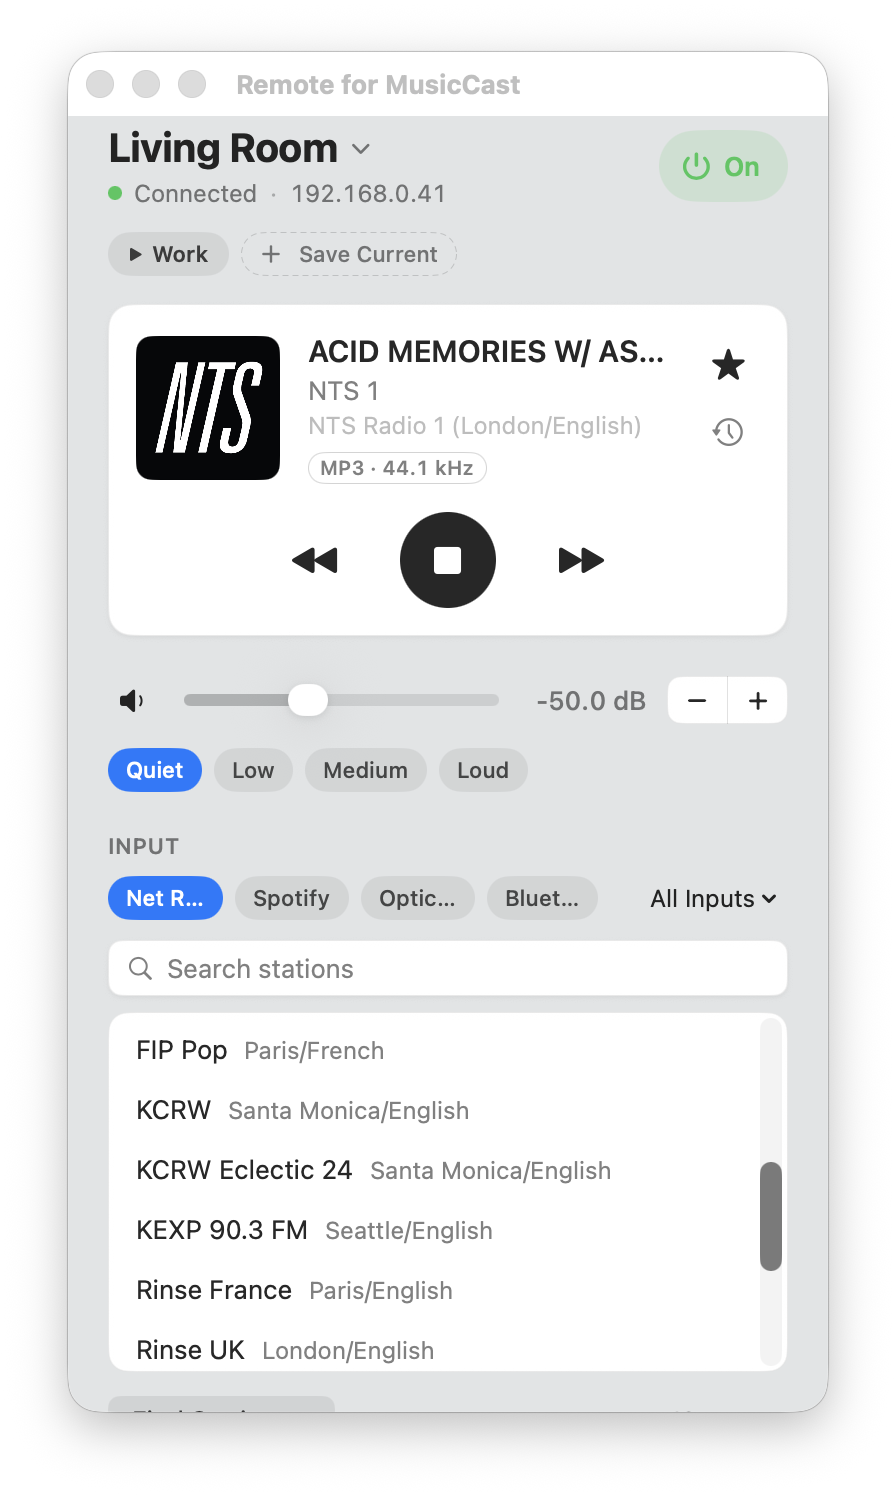
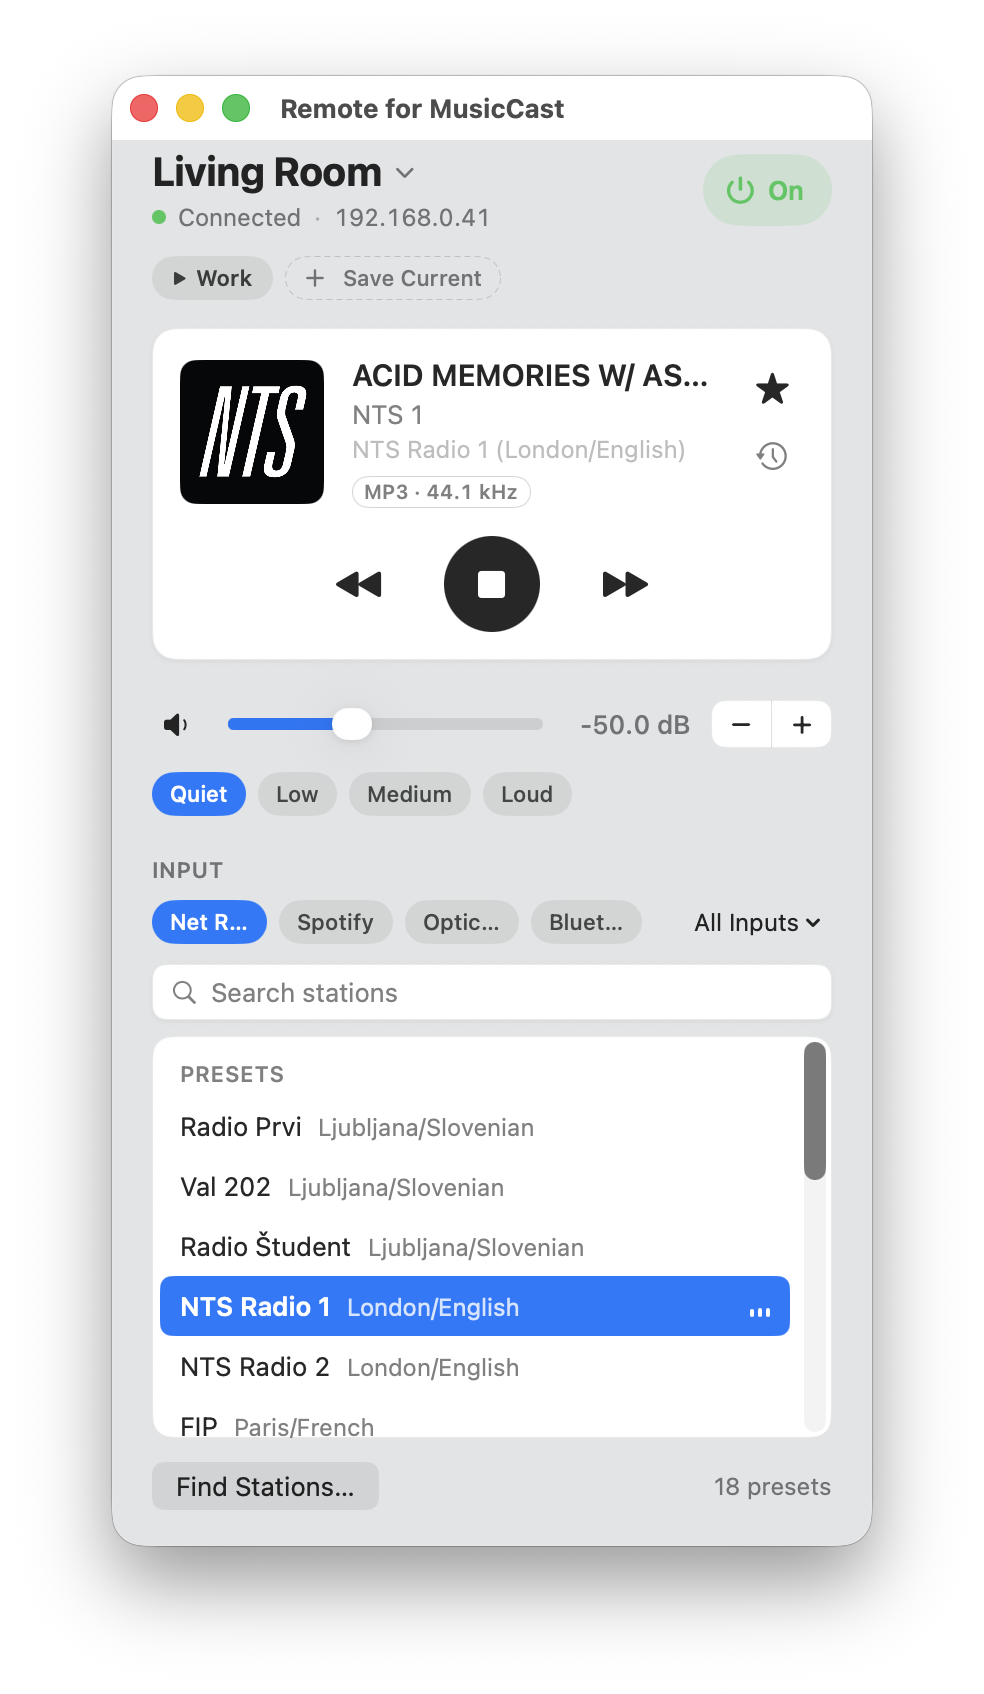
Size the window to fit its content so Find Stations isn't clipped
The fixed 600 pt minimum height was smaller than the content needs,
so a window restored at a short saved size cut off the footer below
the station list. The minimum now comes from the content itself.
Retake the main window screenshot with the fix.

Changed region(s): [[0.0938, 0.0307, 0.9062, 0.9532], [0.5938, 0.4612, 0.7188, 0.492], [0.5, 0.4612, 0.5625, 0.5227]]

diff --git a/Sources/ContentView.swift b/Sources/ContentView.swift
@@ -45,7 +45,8 @@ struct ContentView: View {
 
             messages
         }
-        .frame(minWidth: 360, maxWidth: .infinity, minHeight: 600, maxHeight: .infinity, alignment: .top)
+        // No fixed minHeight: the window's minimum comes from the content, so nothing is clipped.
+        .frame(minWidth: 360, maxWidth: .infinity, maxHeight: .infinity, alignment: .top)
         .background(FrostedWindowBackground().ignoresSafeArea())
         .sheet(isPresented: $receiver.showingSearch) {
             RadioSearchView().environmentObject(receiver)

diff --git a/README.md b/README.md
@@ -3,7 +3,7 @@
 A small macOS app for controlling a Yamaha MusicCast receiver over the local network, using Yamaha Extended Control (YXC). Built and tested with an R-N602.
 
 <p align="center">
-  <img src="docs/screenshots/main-window.png" width="380" alt="Main window: now playing with artwork and audio format, volume presets, inputs and station list">
+  <img src="docs/screenshots/main-window.png" width="417" alt="Main window: now playing with artwork and audio format, volume presets, inputs and station list">
   &nbsp;&nbsp;
   <img src="docs/screenshots/menu-bar.png" width="292" alt="Menu bar extra: current station, routine, volume and presets">
 </p>
